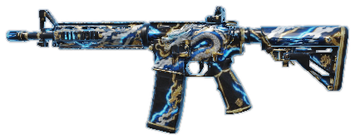
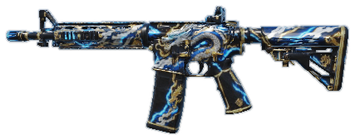
v0.56: armas da Meshy com a aparência do original
- a aura das skins cobria a arma inteira de roxo/azul/vermelho e apagava o preto e
  o dourado (em primeira pessoa virava uma mancha de cor): aura bem mais fraca e
  brilho menor nas três (AK-47 Energia Cósmica, M4A1 Dragão Relâmpago e Mítica)
- fotos da loja e tiras do lobby refeitas com o visual novo
- teste SO_PREVIAS: ALTA=1 (versão detalhada) e ARQUIVO=<modelo> (comparar com o
  FBX original)

Claude-Session: https://claude.ai/code/session_012EZ5KKTFERXFdQTAkopxx1

diff --git a/tools/teste_jogo.cpp b/tools/teste_jogo.cpp
@@ -863,8 +863,14 @@ int main(int argc, char** argv) {
             std::string item = l.substr(a, b - a); a = b + 1;
             size_t c = item.find(':');
             std::string g = item.substr(0, c), sk = c == std::string::npos ? "" : item.substr(c + 1);
-            json spec = {{"tipo", "arma"}, {"arma", g}, {"pos", {0, 1.0, 0}}, {"arquivo", eng::gunModelFile(reinterpret_cast<eng::Engine*>(e), g, sk)}};
-            if (!sk.empty()) spec["textura"] = "kit:armas/skins/" + g + "_" + sk + ".jpg";
+            json spec = {{"tipo", "arma"}, {"arma", g}, {"pos", {0, 1.0, 0}}, {"arquivo", eng::gunModelFile(reinterpret_cast<eng::Engine*>(e), g, sk, std::getenv("ALTA") != nullptr)}};
+            if (const char* arq = std::getenv("ARQUIVO")) spec["arquivo"] = arq;  // outro modelo (ex.: o FBX original, para comparar)
+            {
+                const std::string arq = spec["arquivo"].get<std::string>();  // skin de modelo próprio: a pintura do modelo
+                if (std::getenv("ARQUIVO")) {}
+                else if (arq != "kit:armas/" + g) spec["textura"] = "kit:armas/skins/" + arq.substr(10) + ".jpg";
+                else if (!sk.empty()) spec["textura"] = "kit:armas/skins/" + g + "_" + sk + ".jpg";
+            }
             float metal = -1.f, rough = -1.f;
             eng::gunSkinFinish(g, sk, metal, rough);
             if (!sk.empty() && metal >= 0.f) { spec["metal"] = metal; spec["rugosidade"] = rough; }
